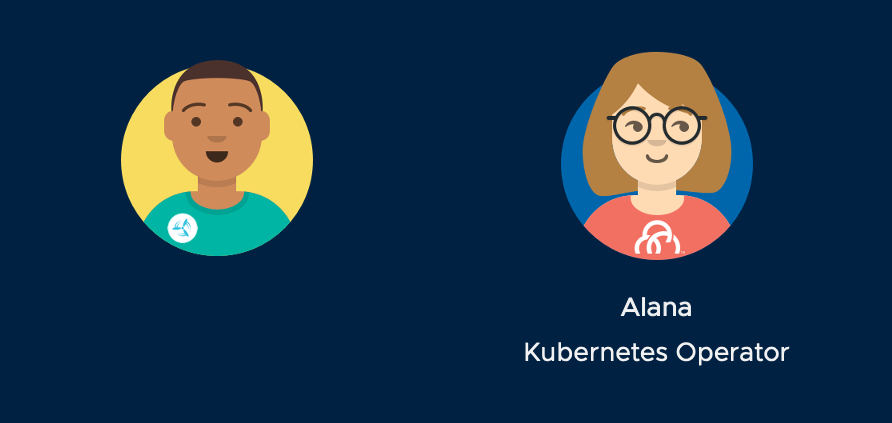
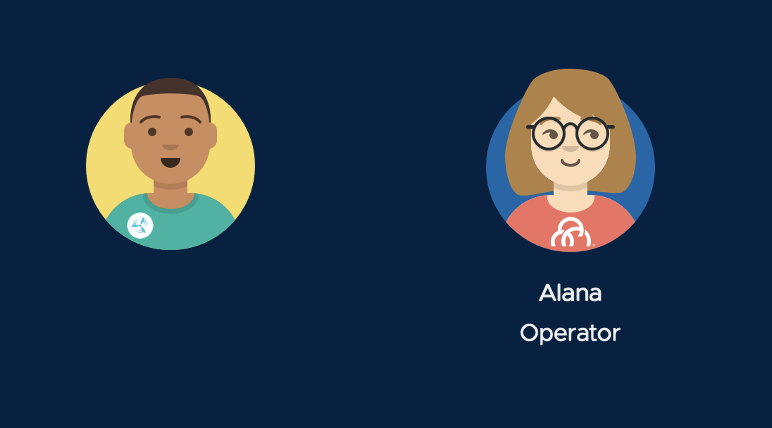
Added dev workshop.
Incorporated edits from Keith Lee.

Changed region(s): [[0.0933, 0.1229, 0.3731, 0.6147], [0.6218, 0.1229, 0.8705, 0.6147], [0.5907, 0.6454, 0.9016, 0.8605]]

diff --git a/workshop/content/exercises/01-App-Accelerator.md b/workshop/content/exercises/01-App-Accelerator.md
@@ -1,6 +1,6 @@
 # Getting started with Tanzu Application Platform.
 
-We're going to start our story with Cody. He's not a deep expert on container infrastructure, but he's an absolute star in writing business applications using popular languages and frameworks.
+We're going to start our story with Cody, an application developer. He's not a deep expert on container infrastructure, but he's an absolute star in writing business applications using popular languages and frameworks.
 
 ![Cody Languages](images/cody-languages.png)
 
@@ -14,9 +14,9 @@ But he's not sure where to begin. Fortunately, he has a partner in crime, in Ala
 
 ![Alana](images/meet-alana.png)
 
-Alana tells Cody to get started by logging into **Application Accelerator**.
+Alana tells our developer Cody to get started by logging into **Application Accelerator**.
 
-**Application Accelerator for Vmware Tanzu** is made to simplify the creation, discovery, and provisioning of projects and project tempates in enterprise software development.
+**Application Accelerator for VMware Tanzu** is made to simplify the creation, discovery, and provisioning of projects and project tempates in enterprise software development.
 
 * Enterprise Architects use Application Accelerator to provide developers and operators in their organization with enterprise-compliant templates for code and configurations.
 
@@ -33,7 +33,7 @@ name: Accelerator
 url: https://accelerator.amer.end2end.link
 ```
 
-Alana has preloaded the accelerator with a variety of projects ranging from Spring Cloud Functions to Node.js. Cody is going to select a project that matches the language and runtime profile that he wants to develop in.
+Alana the operator has preloaded the accelerator with a variety of projects ranging from Spring Cloud Functions to Node.js. As a developer, Cody is going to select a project that matches the language and runtime profile that he wants to develop in.
 
 App Accelerator allows the developer to customize and then download all of the necessary files to deploy a cloud-native application. Normally, we would select a generic application template, like Spring Web App. To speed up this demo, we are going to start with the template for a fully-formed application, Spring Sensors.
 
@@ -43,7 +43,7 @@ Application Accelerator provides powerful features for finding, exploring, and c
 
 ```Click on the Explore Files button towards the bottom of the page```
 
-Let's now view the workspace.yaml file in the Spring Sensors project.
+Let's now view the workload.yaml file in the Spring Sensors project.
 
 ```Drill down into 'config' folder in the file browser and open the workload.yaml file found there```
 
@@ -54,6 +54,6 @@ This file is the core TAP workload configuration file for the project, and is us
 
 Two tags are important here:
 
-* The ```spec.git.url``` tag is configured to point to the git repository containing the project code
+* The ```spec.source.git.url``` tag is configured to point to the git repository containing the project code
 * The ```app.tanzu.vmware.com/workload-type``` metadata label refers to the supply chain to be executed to build and deploy this project
 

diff --git a/workshop/content/workshop-overview.md b/workshop/content/workshop-overview.md
@@ -1,7 +1,7 @@
-# TAP High Level Demonstration
+# Tanzu Application Platform Live Demonstration
 
-**Tanzu Application Platform (TAP)** builds a **world class developer and application operator experience** onto Kubernetes by creating a layer of abstraction onto the individual components in the DevSecOps toolchain that is leveraged in building, testing, verifying, deploying, and operating applications. This new experience is accomplished through the addition of enhanced developer tooling, supply chain automation, and coordination of work/separation of concerns between developers, architects, security teams, and operators both as part of Tanzu Advanced and installed independently on any API-compatible Kubernetes distribution.
+**Tanzu Application Platform (TAP)** delivers a **developer experience** atop Kubernetes. Operators are able to customize and deploy an **application-aware platform**, instead of requiring developers to write platform-aware applications. Tanzu Application Platform abstracts away  the individual components in the DevSecOps toolchain that is leveraged in building, testing, verifying, deploying, and operating applications. This new experience is accomplished through the addition of enhanced developer tooling, supply chain automation, and coordination of work/separation of concerns between developers, architects, security teams, and operators. Tanzu Application Platform runs on any API-compatible Kubernetes distribution.
 
 ![TAP Overview Diagram](tap-architecture.png)
 
-This demonstration is intended to walk the audience through both the simplicity and the power of the core TAP components. The first part of the demonstration is a simple walkthrough of getting a new developer onboarded in an existing software project. Later parts will dive deeper into the developer and operator experiences and functionality, respectively.
+This demonstration is intended to walk the audience through through how development teams and operators will interact with the platform to enable iterative development cycles, and secure, automated delivery to production.
